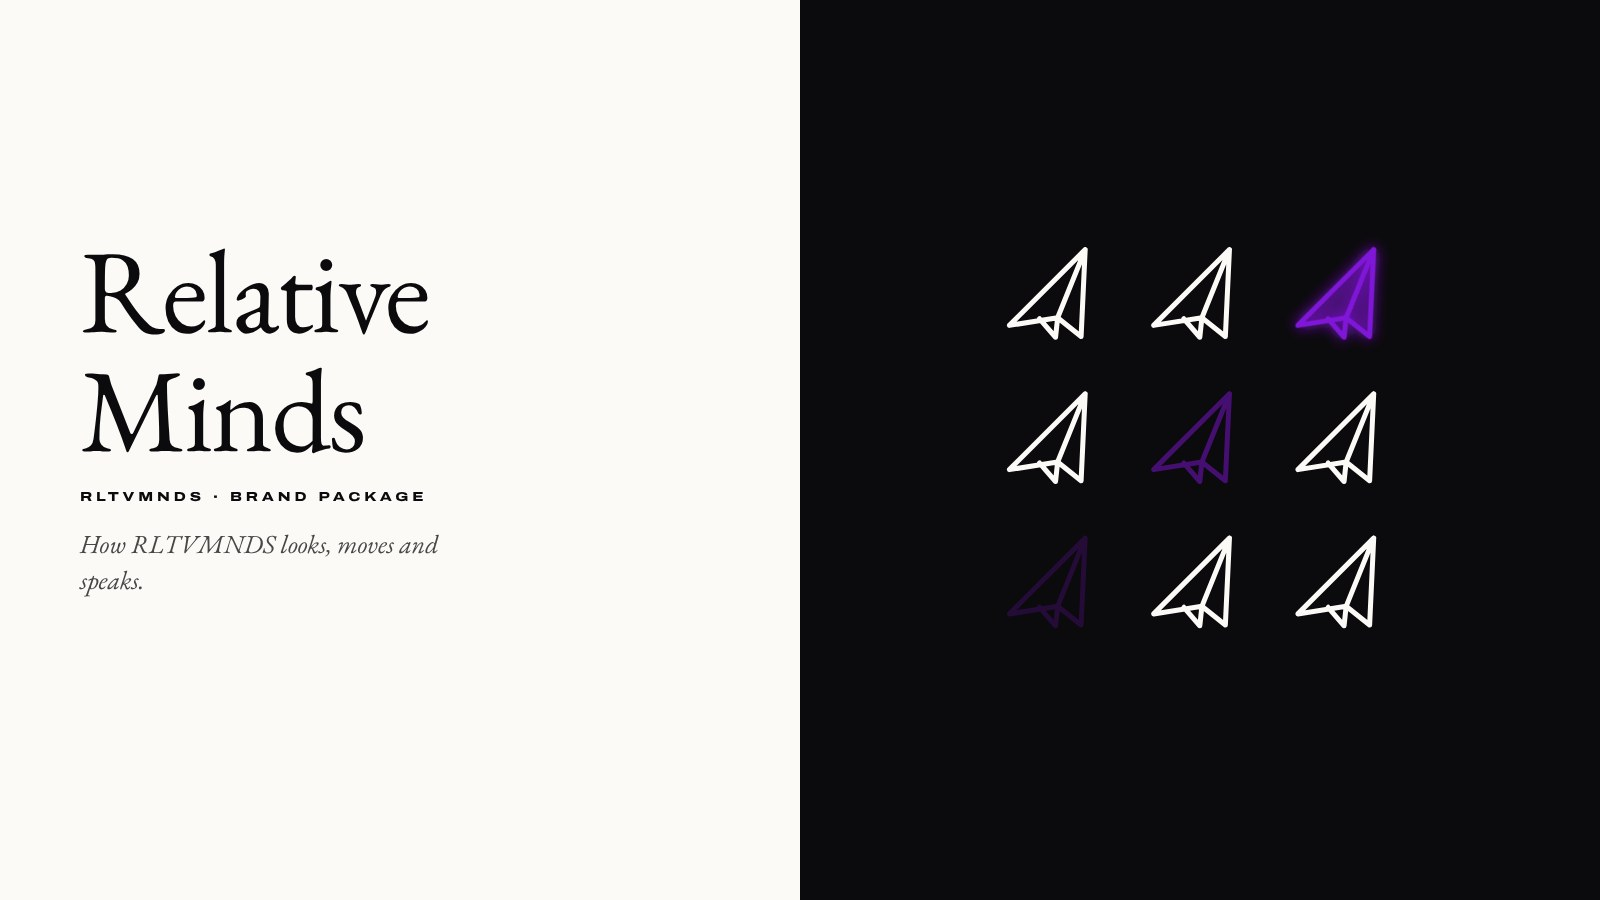
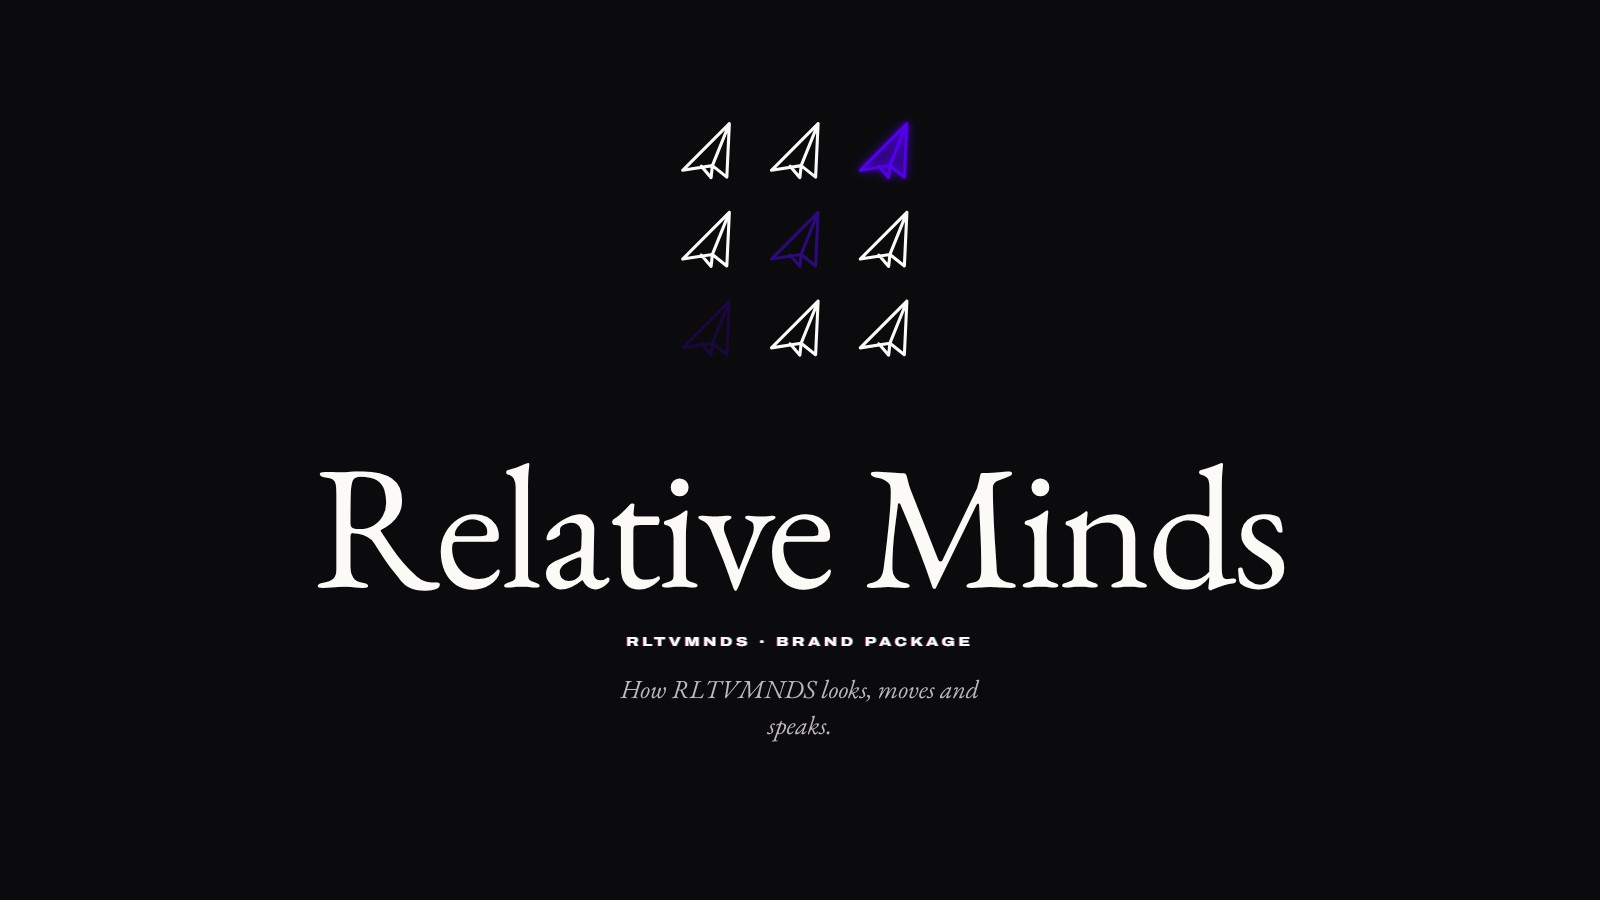
RLTVMNDS brand package: centred cover hero and work card, matching Sol Mafia and Lucid
Claude-Session: https://claude.ai/code/session_01FfPBR7WsghmyX5uTk6SRUc

diff --git a/src/work/rltvmnds.html b/src/work/rltvmnds.html
@@ -22,21 +22,19 @@ body{background:var(--ink);color:var(--paper);font-family:'EB Garamond',Georgia,
 .t.big{font-size:clamp(34px,4.4vw,72px)}
 h2.t{font-size:clamp(18px,1.9vw,28px);line-height:1.35}
 .cap{font-style:italic;font-size:clamp(20px,1.7vw,26px);line-height:1.4;color:var(--soft-night);margin:0;max-width:34ch}
-.day .cap,.rh-l .cap{color:var(--soft-day)}
+.day .cap{color:var(--soft-day)}
 .day{background:var(--paper);color:var(--ink)}
 .night{background:var(--ink)}
 .day h2.t{text-shadow:none}
 .back,.live,.nx a{color:inherit;text-decoration:none}
 .back{font-family:'Archivo',Arial,sans-serif;font-stretch:125%;font-weight:800;font-size:12px;letter-spacing:.24em;text-transform:uppercase}
 .live{display:inline-block;align-self:flex-start;margin-top:6px;border-bottom:2px solid currentColor;padding-bottom:6px;text-shadow:none}
-/* hero: the deck cover, split day and night */
-.rh{display:grid;grid-template-columns:1fr 1fr;min-height:min(100vh,900px)}
-.rh-l{background:var(--paper);color:var(--ink);padding:48px var(--side) 80px;display:flex;flex-direction:column}
-.rh-words{margin:auto 0;display:flex;flex-direction:column;gap:22px;max-width:560px}
-.rh h1{font-weight:400;font-size:clamp(56px,7.4vw,120px);line-height:1;letter-spacing:-.02em;margin:0}
-.rh-l .t{text-shadow:none}
-.rh-r{background:var(--ink);display:flex;align-items:center;justify-content:center;padding:64px}
-.rh-r svg{width:min(78%,520px);height:auto}
+/* hero: the deck cover, centred on night like the other houses */
+.rh{position:relative;min-height:min(100vh,900px);display:flex;flex-direction:column;padding:48px var(--side) 80px;background:var(--ink);color:var(--paper)}
+.rh-c{margin:auto;display:flex;flex-direction:column;align-items:center;gap:22px;text-align:center}
+.rh-c svg{width:clamp(180px,22vw,320px);height:auto;margin-bottom:8px}
+.rh h1{font-weight:400;font-size:clamp(64px,11vw,200px);line-height:1;letter-spacing:-.02em;margin:0}
+.rh .live{align-self:center}
 /* visuals */
 .vsvg{width:100%;max-width:var(--mw)}
 .vsvg svg{width:100%;height:auto;display:block}
@@ -71,7 +69,7 @@ h2.t{font-size:clamp(18px,1.9vw,28px);line-height:1.35}
 .nx-in{display:flex;justify-content:space-between;align-items:center;gap:24px;flex-wrap:wrap}
 .nx .go{font-size:clamp(34px,4.4vw,64px);line-height:1}
 .nx .lbl2{font-family:'Archivo',Arial,sans-serif;font-stretch:125%;font-weight:800;font-size:12px;letter-spacing:.24em;text-transform:uppercase;color:var(--soft-night);margin:0 0 12px}
-@media (max-width:760px){.rh{grid-template-columns:1fr}.rh-l{min-height:auto;padding-bottom:64px}.rh-words{margin-top:96px}.rh-r{padding:72px 24px}}
+@media (max-width:760px){.rh-c{margin-top:96px}}
 
 .pl{padding:clamp(72px,8.9vw,128px) 0}
 .pl .in{display:grid;grid-template-columns:repeat(12,1fr);column-gap:24px;row-gap:clamp(40px,4.4vw,64px)}
@@ -82,7 +80,7 @@ h2.t{font-size:clamp(18px,1.9vw,28px);line-height:1.35}
 .p-daynight .v{display:none}.p-daynight .cap{grid-row:3}
 @media (max-width:760px){.pl .cap{grid-column:1/-1}}
 </style></head><body class="h-rltvmnds lay-A">
-<header class="hero rh"><div class="rh-l"><a class="back" href="__BASE__/work/">&larr; All work</a><div class="rh-words"><h1>Relative Minds</h1><p class="t sm">RLTVMNDS · Brand Package</p><p class="cap">How RLTVMNDS looks, moves and speaks.</p><a class="live t sm" href="https://ashahmeetsworld.github.io/rltvmnds/" rel="noopener">View live ↗</a></div></div><div class="rh-r"><svg viewBox="-69.0 -69.0 310 310" aria-label="The RLTVMNDS echo mark: a grid of paper planes, one coloured plane crossing it diagonally and leaving a fading echo"><defs><filter id="gle1" x="-80%" y="-80%" width="260%" height="260%"><feGaussianBlur stdDeviation="4" result="b"/><feMerge><feMergeNode in="b"/><feMergeNode in="SourceGraphic"/></feMerge></filter></defs>
+<header class="hero rh"><a class="back" href="__BASE__/work/">&larr; All work</a><div class="rh-c"><svg viewBox="-69.0 -69.0 310 310" aria-label="The RLTVMNDS echo mark: a grid of paper planes, one coloured plane crossing it diagonally and leaving a fading echo"><defs><filter id="gle1" x="-80%" y="-80%" width="260%" height="260%"><feGaussianBlur stdDeviation="4" result="b"/><feMerge><feMergeNode in="b"/><feMergeNode in="SourceGraphic"/></feMerge></filter></defs>
 <g transform="translate(-30 -23) rotate(-24.86 30 23)" stroke="#FBFAF7" fill="none" stroke-width="3" stroke-linejoin="round" stroke-linecap="round"><path d="M0 22 L60 0 L36 46 L28 30 Z M28 30 L60 0 M28 30 L22 40 L18 26"/></g>
 <g transform="translate(56 -23) rotate(-24.86 30 23)" stroke="#FBFAF7" fill="none" stroke-width="3" stroke-linejoin="round" stroke-linecap="round"><path d="M0 22 L60 0 L36 46 L28 30 Z M28 30 L60 0 M28 30 L22 40 L18 26"/></g>
 <g transform="translate(142 -23) rotate(-24.86 30 23)" stroke="#F037A5" stroke-opacity="1" fill="none" stroke-width="3" stroke-linejoin="round" stroke-linecap="round" filter="url(#gle1)"><animate attributeName="stroke" values="#F037A5;#4100F5;#9BF0E1;#CDF564;#FF4632;#F037A5" dur="16s" repeatCount="indefinite"/><path d="M0 22 L60 0 L36 46 L28 30 Z" fill="#F037A5" fill-opacity=".28" stroke="none"><animate attributeName="fill" values="#F037A5;#4100F5;#9BF0E1;#CDF564;#FF4632;#F037A5" dur="16s" repeatCount="indefinite"/></path><path d="M0 22 L60 0 L36 46 L28 30 Z M28 30 L60 0 M28 30 L22 40 L18 26"/></g>
@@ -92,7 +90,7 @@ h2.t{font-size:clamp(18px,1.9vw,28px);line-height:1.35}
 <g transform="translate(-30 149) rotate(-24.86 30 23)" stroke="#F037A5" stroke-opacity="0.22" fill="none" stroke-width="3" stroke-linejoin="round" stroke-linecap="round"><animate attributeName="stroke" values="#F037A5;#4100F5;#9BF0E1;#CDF564;#FF4632;#F037A5" dur="16s" repeatCount="indefinite"/><path d="M0 22 L60 0 L36 46 L28 30 Z M28 30 L60 0 M28 30 L22 40 L18 26"/></g>
 <g transform="translate(56 149) rotate(-24.86 30 23)" stroke="#FBFAF7" fill="none" stroke-width="3" stroke-linejoin="round" stroke-linecap="round"><path d="M0 22 L60 0 L36 46 L28 30 Z M28 30 L60 0 M28 30 L22 40 L18 26"/></g>
 <g transform="translate(142 149) rotate(-24.86 30 23)" stroke="#FBFAF7" fill="none" stroke-width="3" stroke-linejoin="round" stroke-linecap="round"><path d="M0 22 L60 0 L36 46 L28 30 Z M28 30 L60 0 M28 30 L22 40 L18 26"/></g>
-</svg></div></header>
+</svg><h1>Relative Minds</h1><p class="t sm">RLTVMNDS · Brand Package</p><p class="cap">How RLTVMNDS looks, moves and speaks.</p><a class="live t sm" href="https://ashahmeetsworld.github.io/rltvmnds/" rel="noopener">View live ↗</a></div></header>
 <main><section class="pl p-echo day" id="echo"><div class="wrap in"><h2 class="t">The echo</h2><div class="v"><div class="vsvg" style="--mw:560px"><svg viewBox="-69.0 -69.0 310 310" aria-label="The RLTVMNDS echo mark: a grid of paper planes, one coloured plane crossing it diagonally and leaving a fading echo"><defs><filter id="gle2" x="-80%" y="-80%" width="260%" height="260%"><feGaussianBlur stdDeviation="4" result="b"/><feMerge><feMergeNode in="b"/><feMergeNode in="SourceGraphic"/></feMerge></filter></defs>
 <g transform="translate(-30 -23) rotate(-24.86 30 23)" stroke="#0B0A0C" fill="none" stroke-width="3" stroke-linejoin="round" stroke-linecap="round"><path d="M0 22 L60 0 L36 46 L28 30 Z M28 30 L60 0 M28 30 L22 40 L18 26"/></g>
 <g transform="translate(56 -23) rotate(-24.86 30 23)" stroke="#0B0A0C" fill="none" stroke-width="3" stroke-linejoin="round" stroke-linecap="round"><path d="M0 22 L60 0 L36 46 L28 30 Z M28 30 L60 0 M28 30 L22 40 L18 26"/></g>
